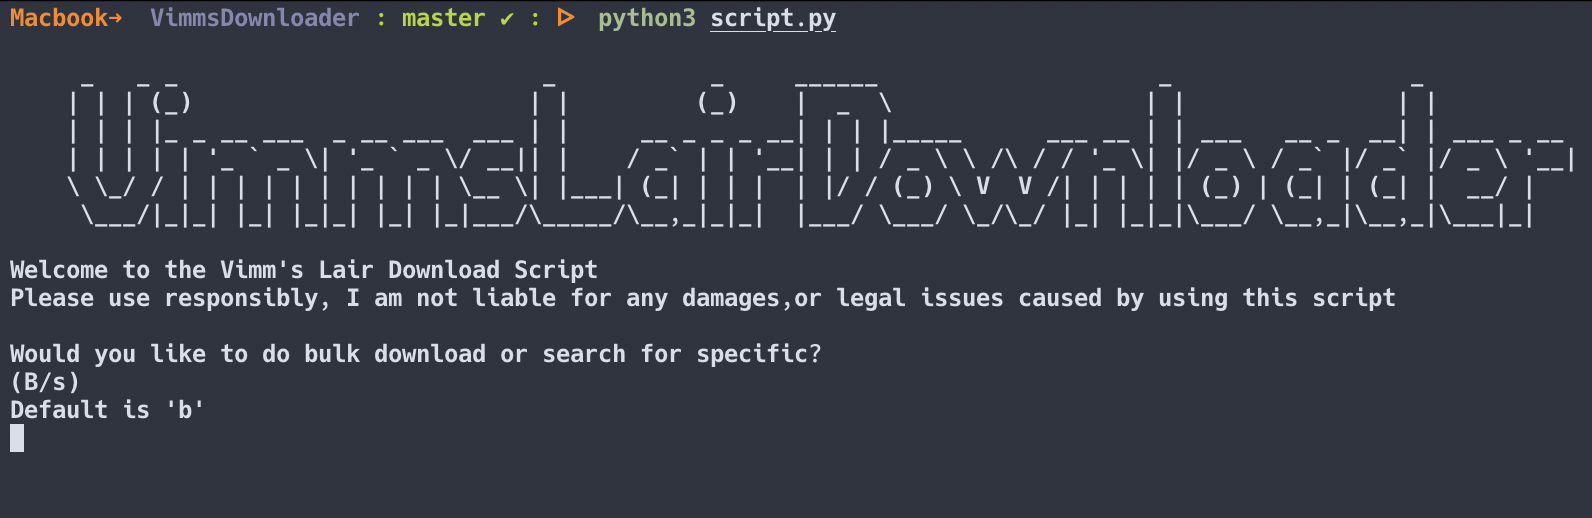
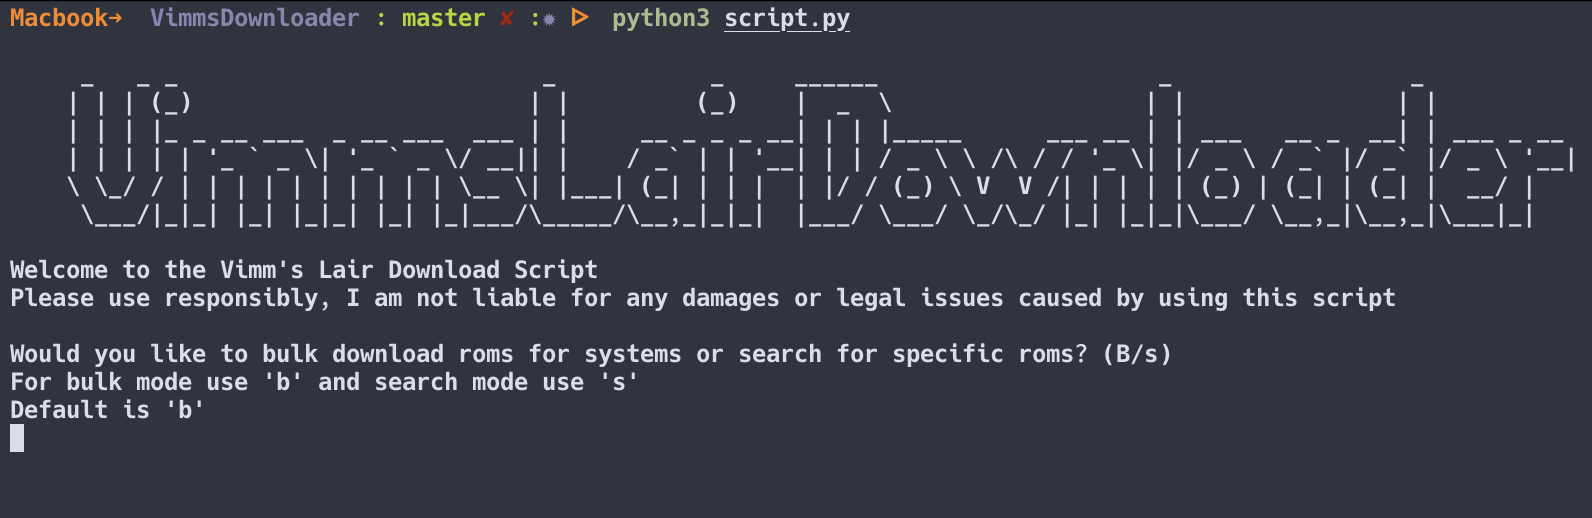
readme update
readme and text formatting in console output

Changed region(s): [[0.0, 0.6486, 0.7387, 0.7722], [0.3078, 0.0, 0.554, 0.0618]]

diff --git a/script.py b/script.py
@@ -266,8 +266,10 @@ def get_general_search_section(
 def get_program_mode() -> models.Config:
     """Gets input from user to go into either (Bulk/Search) mode"""
     config: models.Config = models.Config()
-    print('\nWould you like to do bulk download or search for specific?')
-    print('(B/s)')
+    print(
+        '\nWould you like to bulk download roms for systems or search for specific roms? (B/s)'
+    )
+    print("For bulk mode use 'b' and search mode use 's'")
     print('Default is \'b\'')
     while True:
         user_input: str = sys.stdin.readline()
@@ -289,16 +291,16 @@ def get_program_mode() -> models.Config:
 
 def get_bulk_selections(config: models.Config) -> models.Config:
     """Gets input in bulk mode if the user wants to only download specific consoles"""
-    print("Press Enter to download all of Vimm's roms or select from the\
-        following of what systems you would like")
-    print('Enter \'q\' when finished if choosing specific consoles')
+    print("Press Enter to download all of Vimm's roms or select from the" +
+          " following of what systems you would like to download")
+    print('Enter \'d\' when finished if choosing specific consoles\n')
     helpers.print_console_list()
     while True:
         user_input: str = sys.stdin.readline()
         if user_input == '\n' and len(config.Selections) == 0:
             config.All = True
             break
-        if user_input == 'q\n':
+        if user_input == 'd\n':
             break
         try:
             if not (int(user_input) > 17 or int(user_input) < 0):

diff --git a/src/helpers.py b/src/helpers.py
@@ -241,8 +241,8 @@ def print_welcome():
      \___/|_|_| |_| |_|_| |_| |_|___/\_____/\__,_|_|_|  |___/ \___/ \_/\_/ |_| |_|_|\___/ \__,_|\__,_|\___|_|
         """)
     print('Welcome to the Vimm\'s Lair Download Script')
-    print('Please use responsibly, I am not liable for any damages,' +
-          'or legal issues caused by using this script')
+    print('Please use responsibly, I am not liable for any damages' +
+          ' or legal issues caused by using this script')
 
 
 def get_search_url(search_selection: models.SearchSelection) -> str:

diff --git a/README.md b/README.md
@@ -14,13 +14,20 @@ python3 script.py
 ```
 
 ## Features
-- Bulk download of all the systems listed on Vimm's
-- Searching and downloading for specific ROMs per system
-- Automatic extraction and deletion of compressed files 
+- Automatic extraction and deletion if specified for both modes
+#### Search Mode
+- Search can be system specific or a general search across the whole site
+- Example query below\
+  ![alt text](https://github.com/BrianTipton1/VimmsDownloader/blob/master/README/search.png)
+
+#### Bulk Mode
+- Can be used to download specified systems or all of them
+- Creation of a console based alpha-numeric directory structure in the root project directory where the files are downloaded to
 
 ## Usage
 - Follow the on screen instructions to go into either (Bulk/Search) mode
 - From there it will prompt you on what criteria to search for or what systems you want to bulk download
+
 
 ## Contributing
 Pull requests are welcome. For major changes, please open an issue first to discuss what you would like to change.
